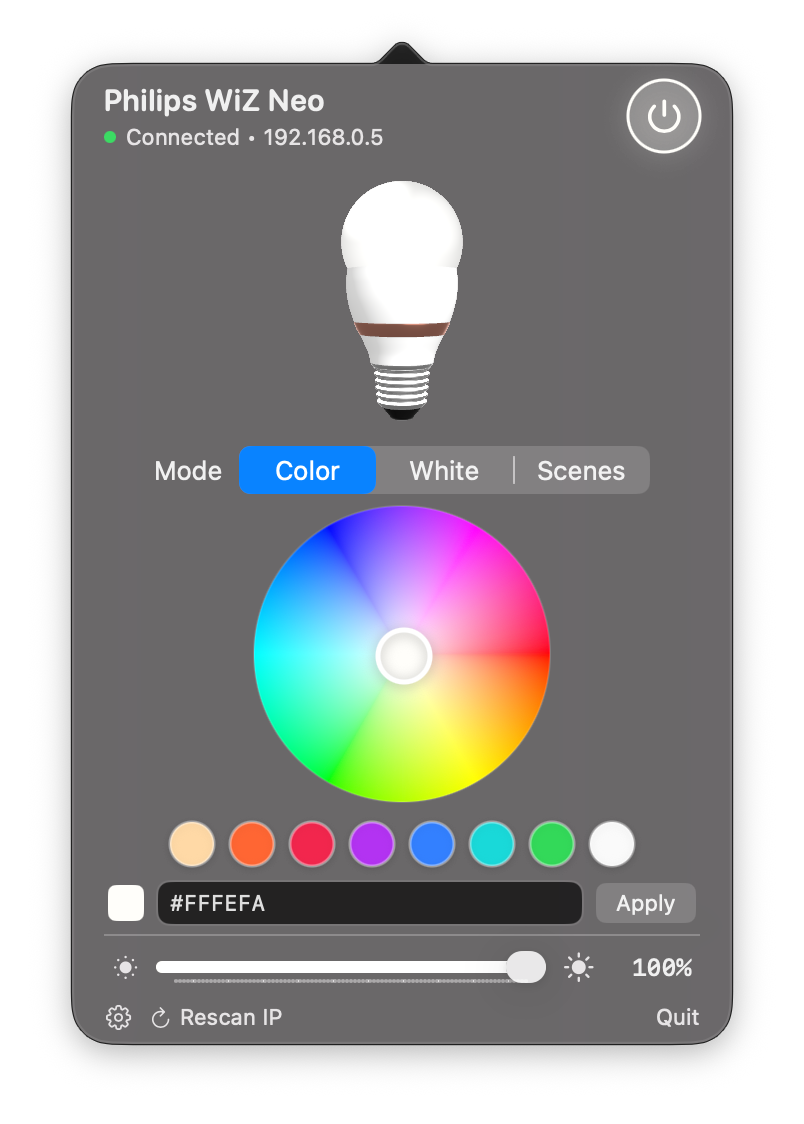
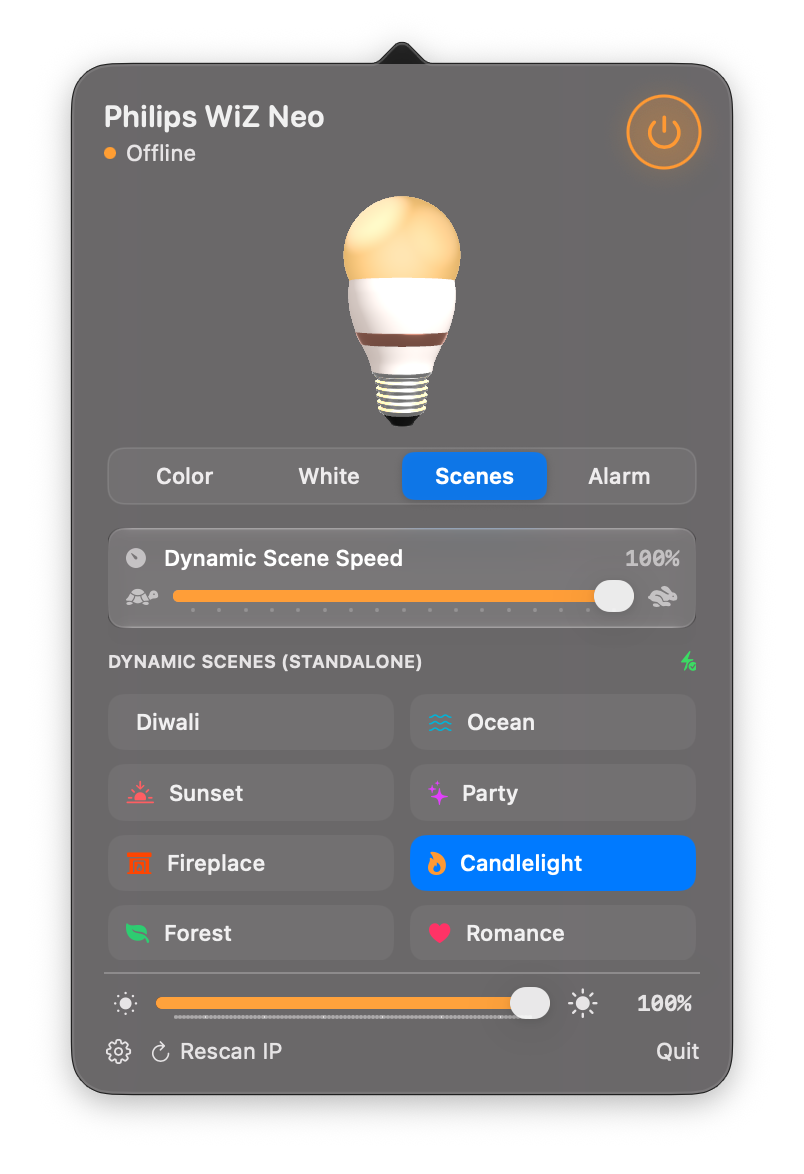
fix: address CodeRabbit review comments and update screenshots

diff --git a/Sources/App/AppDelegate.swift b/Sources/App/AppDelegate.swift
@@ -3,19 +3,17 @@ import SwiftUI
 import Combine
 
 public final class AppDelegate: NSObject, NSApplicationDelegate, NSPopoverDelegate {
-    private var statusController: StatusItemController!
+    private let statusController = StatusItemController()
     private var popover: NSPopover!
+    private var eventMonitor: Any?
+    private var localEventMonitor: Any?
     private var cancellables = Set<AnyCancellable>()
 
-    private var globalDismissMonitor: Any?
-    private var localKeyMonitor: Any?
-
     public func applicationDidFinishLaunching(_ notification: Notification) {
-        // Register default values
+        // Register default values into UserDefaults
         Defaults.register()
 
-        // Initialize status bar controller
-        statusController = StatusItemController()
+        // Setup status item controller
         statusController.onLeftClick = { [weak self] in
             self?.togglePopover()
         }
@@ -23,10 +21,10 @@ public final class AppDelegate: NSObject, NSApplicationDelegate, NSPopoverDelega
             WizService.shared.togglePower()
         }
 
-        // Initialize ScheduleManager
+        // Initialize background schedule evaluator
         _ = ScheduleManager.shared
 
-        // Setup Popover with .applicationDefined behavior to prevent accidental closes on sheet interactions
+        // Setup Popover
         let popover = NSPopover()
         popover.contentSize = NSSize(width: 330, height: 515)
         popover.behavior = .applicationDefined
@@ -46,10 +44,18 @@ public final class AppDelegate: NSObject, NSApplicationDelegate, NSPopoverDelega
                     brightness: brightness,
                     isAlarmTriggered: isAlarm
                 )
+            }
+            .store(in: &cancellables)
 
-                if isAlarm, let self = self, !self.popover.isShown, let button = self.statusController.button {
-                    self.showPopover(anchor: button)
-                }
+        // Show popover strictly when an alarm transitions to triggered (rising edge)
+        ScheduleManager.shared.$isAlarmTriggered
+            .removeDuplicates()
+            .filter { $0 }
+            .receive(on: DispatchQueue.main)
+            .sink { [weak self] _ in
+                guard let self = self, !self.popover.isShown,
+                      let button = self.statusController.button else { return }
+                self.showPopover(anchor: button)
             }
             .store(in: &cancellables)
 
@@ -79,42 +85,37 @@ public final class AppDelegate: NSObject, NSApplicationDelegate, NSPopoverDelega
     }
 
     private func closePopover() {
-        popover.performClose(nil)
+        if popover.isShown {
+            popover.performClose(nil)
+        }
     }
 
     private func installDismissMonitors() {
-        removeDismissMonitors()
-
-        // Global monitor for clicks outside the application window
-        globalDismissMonitor = NSEvent.addGlobalMonitorForEvents(
-            matching: [.leftMouseDown, .rightMouseDown]
-        ) { [weak self] _ in
-            guard let self = self, self.popover.isShown else { return }
-            let mouseLocation = NSEvent.mouseLocation
-            // If the click is on the status item itself, let the button handler toggle it
-            guard !self.statusController.contains(point: mouseLocation) else { return }
-            self.closePopover()
+        // Global monitor catches clicks outside the application windows
+        eventMonitor = NSEvent.addGlobalMonitorForEvents(matching: [.leftMouseDown, .rightMouseDown]) { [weak self] _ in
+            self?.closePopover()
         }
 
-        // Local monitor for Escape key
-        localKeyMonitor = NSEvent.addLocalMonitorForEvents(matching: .keyDown) { [weak self] event in
+        // Local monitor catches clicks in other parts of our app
+        localEventMonitor = NSEvent.addLocalMonitorForEvents(matching: [.leftMouseDown, .rightMouseDown]) { [weak self] event in
             guard let self = self, self.popover.isShown else { return event }
-            if event.keyCode == 53 { // ESC key
+            if let popoverWindow = self.popover.contentViewController?.view.window,
+               event.window != popoverWindow,
+               event.window != self.statusController.button?.window {
                 self.closePopover()
-                return nil
             }
             return event
         }
     }
 
     private func removeDismissMonitors() {
-        if let monitor = globalDismissMonitor {
+        if let monitor = eventMonitor {
             NSEvent.removeMonitor(monitor)
-            globalDismissMonitor = nil
+            eventMonitor = nil
         }
-        if let monitor = localKeyMonitor {
-            NSEvent.removeMonitor(monitor)
-            localKeyMonitor = nil
+        if let localMonitor = localEventMonitor {
+            NSEvent.removeMonitor(localMonitor)
+            localEventMonitor = nil
         }
     }
 }

diff --git a/Sources/UI/Sections/AddAlarmSheetView.swift b/Sources/UI/Sections/AddAlarmSheetView.swift
@@ -18,16 +18,14 @@ public struct AddAlarmSheetView: View {
                 Button(vm.editingAlarmId == nil ? "Add" : "Save") {
                     let comps = Calendar.current.dateComponents([.hour, .minute], from: vm.newAlarmTime)
                     let id = vm.editingAlarmId ?? UUID()
-                    let alarm = BulbAlarm(
-                        id: id,
-                        isEnabled: true,
-                        hour: comps.hour ?? 9,
-                        minute: comps.minute ?? 0,
-                        repeatOption: vm.newAlarmRepeat,
-                        mode: vm.newAlarmMode,
-                        designatedBrightness: vm.newAlarmBrightness,
-                        durationSeconds: 30
-                    )
+                    var alarm = schedule.alarms.first(where: { $0.id == id })
+                        ?? BulbAlarm(id: id, durationSeconds: 30)
+                    alarm.isEnabled = true
+                    alarm.hour = comps.hour ?? 9
+                    alarm.minute = comps.minute ?? 0
+                    alarm.repeatOption = vm.newAlarmRepeat
+                    alarm.mode = vm.newAlarmMode
+                    alarm.designatedBrightness = vm.newAlarmBrightness
                     schedule.updateAlarm(alarm)
                     vm.showingAlarmSheet = false
                 }

diff --git a/Sources/Services/WizService.swift b/Sources/Services/WizService.swift
@@ -175,13 +175,15 @@ public final class WizService: ObservableObject {
         let r = Int(round(rgb.redComponent * 255))
         let g = Int(round(rgb.greenComponent * 255))
         let b = Int(round(rgb.blueComponent * 255))
+        let dimming = Int(self.brightness)
 
         debouncePilotCommand {
             [
                 "state": true,
                 "r": r,
                 "g": g,
-                "b": b
+                "b": b,
+                "dimming": dimming
             ]
         }
     }
@@ -225,7 +227,7 @@ public final class WizService: ObservableObject {
         sendPilotCommand(params)
     }
 
-    public func setSceneIdDirect(_ sceneId: Int, speed: Int? = nil) {
+    public func setSceneIdDirect(_ sceneId: Int, speed: Int? = nil, brightness: Double? = nil) {
         noteVisualChange()
         noteLocalControl()
         self.activeSceneId = sceneId
@@ -237,6 +239,9 @@ public final class WizService: ObservableObject {
         ]
         if let speed = speed {
             params["speed"] = speed
+        }
+        if let brightness = brightness {
+            params["dimming"] = Int(max(10.0, min(100.0, brightness)))
         }
 
         debounceWorkItem?.cancel()

diff --git a/Sources/Services/ScheduleManager.swift b/Sources/Services/ScheduleManager.swift
@@ -42,7 +42,9 @@ public final class ScheduleManager: ObservableObject {
     // MARK: - Alarm Persistence
 
     private func loadAlarms() {
-        if let data = UserDefaults.standard.data(forKey: DefaultsKey.alarms),
+        let storedData = UserDefaults.standard.data(forKey: DefaultsKey.alarms)
+            ?? UserDefaults.standard.data(forKey: "LuminaBulbAlarms")
+        if let data = storedData,
            let decoded = try? JSONDecoder().decode([BulbAlarm].self, from: data) {
             self.alarms = decoded
         } else {
@@ -144,7 +146,7 @@ public final class ScheduleManager: ObservableObject {
         case .hardwareAlarm:
             // Scene 35 is WiZ native Alarm scene; runs firmware-level pulsing
             WizService.shared.setBrightness(alarm.designatedBrightness)
-            WizService.shared.setSceneIdDirect(35, speed: 100)
+            WizService.shared.setSceneIdDirect(35, speed: 100, brightness: alarm.designatedBrightness)
 
         case .customPulse:
             // Rapid flashing loop for 30s

diff --git a/Sources/Core/Defaults.swift b/Sources/Core/Defaults.swift
@@ -6,7 +6,7 @@ public enum DefaultsKey {
     public static let bulbLabel = "WizBulbLabel"
     public static let dynamicSpeed = "WizDynamicSpeed"
     public static let favoriteColors = "LuminaFavoriteColors"
-    public static let alarms = "LuminaBulbAlarms"
+    public static let alarms = "LuminaSavedAlarms"
     public static let defaultBrightness = "WizDefaultBrightness"
     public static let defaultTemperature = "WizDefaultTemperature"
 }

diff --git a/README.md b/README.md
@@ -4,20 +4,17 @@ A small, native macOS menu bar controller for WiZ smart bulbs. Lumina talks dire
 
 ## Screenshots
 
-| Color controls | Scenes and color flows |
+| Color controls | Scenes and alarms |
 | --- | --- |
-| ![Lumina color controls](public/SS1.png) | ![Lumina scenes and color flows](public/SS2.png) |
+| ![Lumina color controls](public/SS1.png) | ![Lumina scenes and alarms](public/SS2.png) |
 
 ## Features
 
 - Turn the bulb on or off from the menu bar popover. Right-click or Option-click the menu bar icon to toggle power quickly.
-- Adjust brightness, choose a color from the wheel, enter a custom hex color, or set white color temperature.
-- Use the bulb preview to see color and brightness changes. Its label can be customized in **Settings**.
-- Choose built-in WiZ scenes or start a cycling color flow, including Diwali, Aurora, Sunset, and Ocean palettes.
-- Set the bulb's IP address in Settings or use **Rescan IP** to look for it on your local network.
-- Scheduled alarms and wake-up routines with firmware pulse effects or custom color strobe loops.
-- Rock-solid `.applicationDefined` popover behavior with outside-click and Escape key monitors.
-- Cached menu bar rendering to minimize CPU overhead.
+- Adjust brightness, choose a color from the wheel, save up to 5 favorite colors, enter custom hex, or set white color temperature with a tactile glide slider.
+- Built-in WiZ standalone scenes (Diwali, Ocean, Sunset, Party, Fireplace, etc.) with real-time dynamic animation speed controls.
+- Scheduled alarms and wake-up lighting with customizable actions (WiZ Hardware Alarm effect, Flashing Strobe, or Designated Color) and in-place alarm editing.
+- Native Apple Liquid Glass aesthetic and popover interface with fluid spring motion.
 
 ## Requirements
 
@@ -45,9 +42,12 @@ Full Xcode is not required to build the app when the Command Line Tools and macO
 # Install to /Applications
 ./build.sh --install
 
-# Package a compressed distributable DMG
+# Package a compressed DMG installer for local installation
 ./Tools/make-dmg.sh
 ```
+
+> [!NOTE]
+> The packaged disk image is ad-hoc signed for local and manual installation (not Apple-notarized). On first launch on a new Mac, macOS Gatekeeper may request approval. You can launch it by **Right-Clicking > Open**, or via **System Settings > Privacy & Security > Open Anyway**.
 
 ## Connect to a Bulb
 
